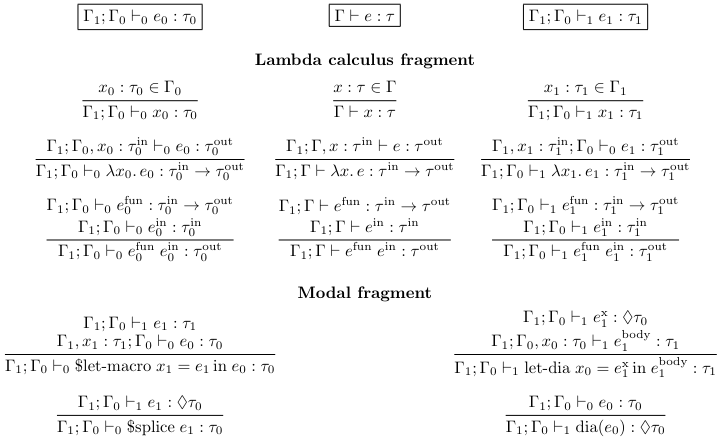
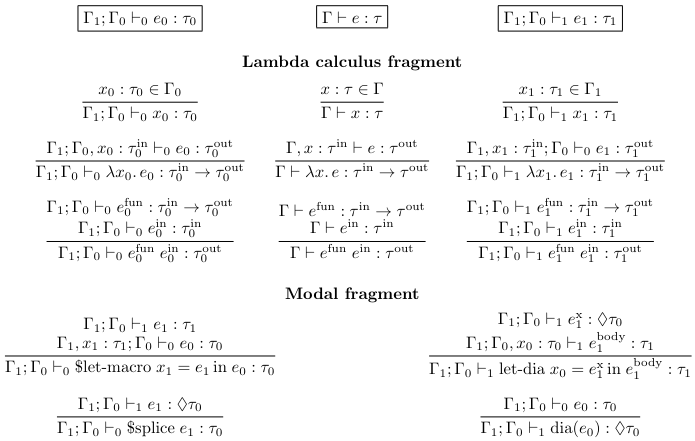
typo

diff --git a/latex/staged-diamond-calculus.tex b/latex/staged-diamond-calculus.tex
@@ -157,8 +157,8 @@
   {\Gamma_1; \Gamma_0 \vdash_0 \lambda x_0.\,e_0 :\tau^{\text{in}}_0 \to \tau^{\text{out}}_0}
   &
   \trfrac
-  {\Gamma_1; \Gamma, x : \tau^{\text{in}} \vdash e : \tau^{\text{out}}}
-  {\Gamma_1; \Gamma \vdash \lambda x.\,e :\tau^{\text{in}} \to \tau^{\text{out}}}
+  {\Gamma, x : \tau^{\text{in}} \vdash e : \tau^{\text{out}}}
+  {\Gamma \vdash \lambda x.\,e :\tau^{\text{in}} \to \tau^{\text{out}}}
   &
   \trfrac
   {\Gamma_1, x_1 : \tau^{\text{in}}_1; \Gamma_0 \vdash_0 e_1 : \tau^{\text{out}}_1}
@@ -179,13 +179,13 @@
   \trfrac
   {
     \begin{trgather}
-    \Gamma_1; \Gamma \vdash e^{\text{fun}} : \tau^{\text{in}} \to \tau^{\text{out}}
+    \Gamma \vdash e^{\text{fun}} : \tau^{\text{in}} \to \tau^{\text{out}}
     \vspace{0.5ex}
     \\
-    \Gamma_1; \Gamma \vdash e^{\text{in}} : \tau^{\text{in}}
+    \Gamma \vdash e^{\text{in}} : \tau^{\text{in}}
     \end{trgather}
   }
-  {\Gamma_1; \Gamma \vdash e^{\text{fun}}\;e^{\text{in}} : \tau^{\text{out}}}
+  {\Gamma \vdash e^{\text{fun}}\;e^{\text{in}} : \tau^{\text{out}}}
   &
   \trfrac
   {
